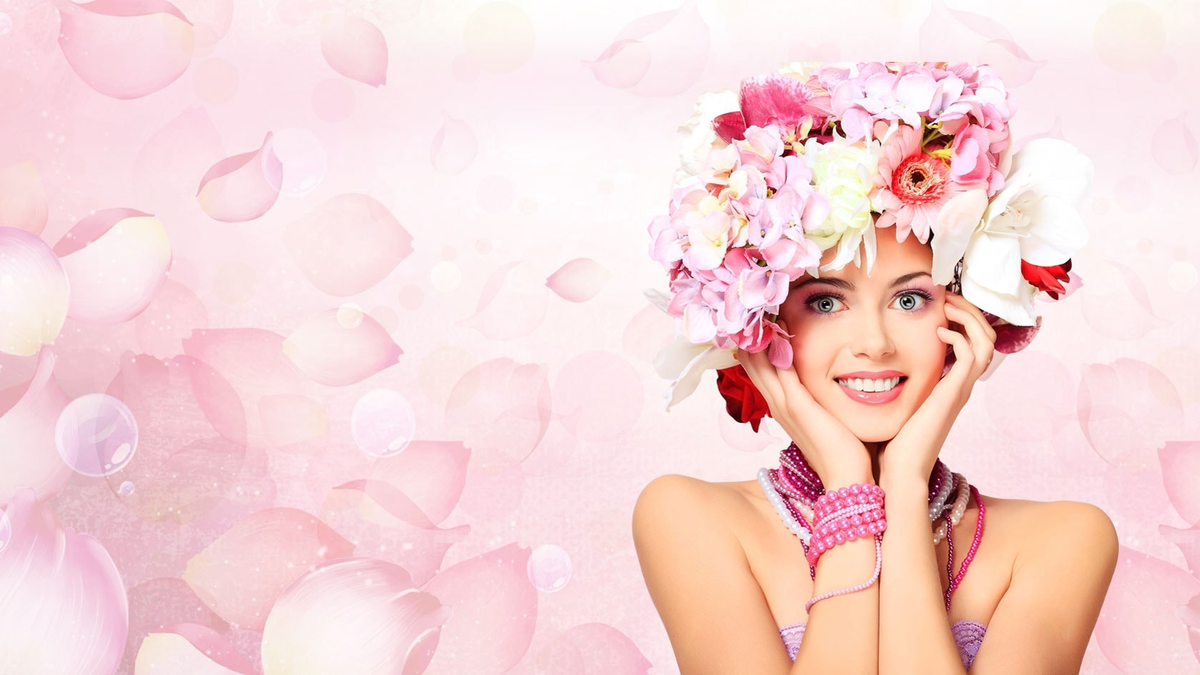
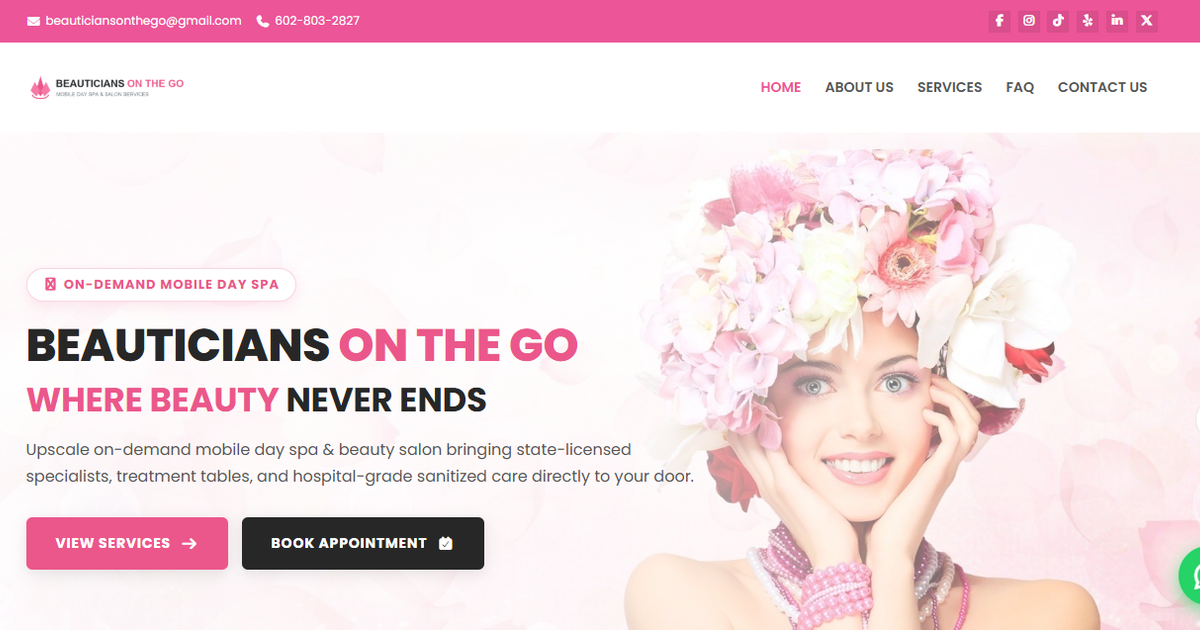
Update Open Graph image to standard 1200x630 branded preview card and install complete social media meta tags

diff --git a/public/demos/beauticiansonthego/about-1.html b/public/demos/beauticiansonthego/about-1.html
@@ -2,6 +2,26 @@
 <html lang="en">
 
 <head>
+    <!-- OPEN GRAPH / SOCIAL MEDIA META TAGS -->
+    <meta property="og:type" content="website">
+    <meta property="og:url" content="https://www.saimdev.site/demos/beauticiansonthego/index.html">
+    <meta property="og:site_name" content="Beauticians On The Go">
+    <meta property="og:title" content="Beauticians On The Go — Upscale On-Demand Mobile Day Spa & Beauty Salon">
+    <meta property="og:description" content="Upscale on-demand mobile day spa & beauty salon delivering state-licensed specialists, treatment tables, and hospital-grade sanitized care directly to private residences, vacation rentals, luxury resorts, and corporate events across AZ, CA, NV & TN.">
+    <meta property="og:image" content="https://www.saimdev.site/demos/beauticiansonthego/og-image.jpg">
+    <meta property="og:image:secure_url" content="https://www.saimdev.site/demos/beauticiansonthego/og-image.jpg">
+    <meta property="og:image:type" content="image/jpeg">
+    <meta property="og:image:width" content="1200">
+    <meta property="og:image:height" content="630">
+    <meta property="og:image:alt" content="Beauticians On The Go Luxury Mobile Day Spa & Salon Showcase">
+
+    <!-- TWITTER / X META TAGS -->
+    <meta name="twitter:card" content="summary_large_image">
+    <meta name="twitter:url" content="https://www.saimdev.site/demos/beauticiansonthego/index.html">
+    <meta name="twitter:title" content="Beauticians On The Go — Upscale On-Demand Mobile Day Spa & Beauty Salon">
+    <meta name="twitter:description" content="Upscale on-demand mobile day spa & beauty salon delivering state-licensed specialists, treatment tables, and hospital-grade sanitized care directly to your door.">
+    <meta name="twitter:image" content="https://www.saimdev.site/demos/beauticiansonthego/og-image.jpg">
+
     <!-- Performance Preconnect Hints -->
     <link rel="preconnect" href="https://fonts.googleapis.com">
     <link rel="preconnect" href="https://fonts.gstatic.com" crossorigin>

diff --git a/public/demos/beauticiansonthego/contact-1.html b/public/demos/beauticiansonthego/contact-1.html
@@ -3,6 +3,26 @@
 <html lang="en">
 
 <head>
+    <!-- OPEN GRAPH / SOCIAL MEDIA META TAGS -->
+    <meta property="og:type" content="website">
+    <meta property="og:url" content="https://www.saimdev.site/demos/beauticiansonthego/index.html">
+    <meta property="og:site_name" content="Beauticians On The Go">
+    <meta property="og:title" content="Beauticians On The Go — Upscale On-Demand Mobile Day Spa & Beauty Salon">
+    <meta property="og:description" content="Upscale on-demand mobile day spa & beauty salon delivering state-licensed specialists, treatment tables, and hospital-grade sanitized care directly to private residences, vacation rentals, luxury resorts, and corporate events across AZ, CA, NV & TN.">
+    <meta property="og:image" content="https://www.saimdev.site/demos/beauticiansonthego/og-image.jpg">
+    <meta property="og:image:secure_url" content="https://www.saimdev.site/demos/beauticiansonthego/og-image.jpg">
+    <meta property="og:image:type" content="image/jpeg">
+    <meta property="og:image:width" content="1200">
+    <meta property="og:image:height" content="630">
+    <meta property="og:image:alt" content="Beauticians On The Go Luxury Mobile Day Spa & Salon Showcase">
+
+    <!-- TWITTER / X META TAGS -->
+    <meta name="twitter:card" content="summary_large_image">
+    <meta name="twitter:url" content="https://www.saimdev.site/demos/beauticiansonthego/index.html">
+    <meta name="twitter:title" content="Beauticians On The Go — Upscale On-Demand Mobile Day Spa & Beauty Salon">
+    <meta name="twitter:description" content="Upscale on-demand mobile day spa & beauty salon delivering state-licensed specialists, treatment tables, and hospital-grade sanitized care directly to your door.">
+    <meta name="twitter:image" content="https://www.saimdev.site/demos/beauticiansonthego/og-image.jpg">
+
     <!-- Performance Preconnect Hints -->
     <link rel="preconnect" href="https://fonts.googleapis.com">
     <link rel="preconnect" href="https://fonts.gstatic.com" crossorigin>

diff --git a/public/demos/beauticiansonthego/faq-1.html b/public/demos/beauticiansonthego/faq-1.html
@@ -3,6 +3,26 @@
 <html lang="en">
 
 <head>
+    <!-- OPEN GRAPH / SOCIAL MEDIA META TAGS -->
+    <meta property="og:type" content="website">
+    <meta property="og:url" content="https://www.saimdev.site/demos/beauticiansonthego/index.html">
+    <meta property="og:site_name" content="Beauticians On The Go">
+    <meta property="og:title" content="Beauticians On The Go — Upscale On-Demand Mobile Day Spa & Beauty Salon">
+    <meta property="og:description" content="Upscale on-demand mobile day spa & beauty salon delivering state-licensed specialists, treatment tables, and hospital-grade sanitized care directly to private residences, vacation rentals, luxury resorts, and corporate events across AZ, CA, NV & TN.">
+    <meta property="og:image" content="https://www.saimdev.site/demos/beauticiansonthego/og-image.jpg">
+    <meta property="og:image:secure_url" content="https://www.saimdev.site/demos/beauticiansonthego/og-image.jpg">
+    <meta property="og:image:type" content="image/jpeg">
+    <meta property="og:image:width" content="1200">
+    <meta property="og:image:height" content="630">
+    <meta property="og:image:alt" content="Beauticians On The Go Luxury Mobile Day Spa & Salon Showcase">
+
+    <!-- TWITTER / X META TAGS -->
+    <meta name="twitter:card" content="summary_large_image">
+    <meta name="twitter:url" content="https://www.saimdev.site/demos/beauticiansonthego/index.html">
+    <meta name="twitter:title" content="Beauticians On The Go — Upscale On-Demand Mobile Day Spa & Beauty Salon">
+    <meta name="twitter:description" content="Upscale on-demand mobile day spa & beauty salon delivering state-licensed specialists, treatment tables, and hospital-grade sanitized care directly to your door.">
+    <meta name="twitter:image" content="https://www.saimdev.site/demos/beauticiansonthego/og-image.jpg">
+
     <!-- Performance Preconnect Hints -->
     <link rel="preconnect" href="https://fonts.googleapis.com">
     <link rel="preconnect" href="https://fonts.gstatic.com" crossorigin>

diff --git a/public/demos/beauticiansonthego/services-1.html b/public/demos/beauticiansonthego/services-1.html
@@ -2,6 +2,26 @@
 <html lang="en">
 
 <head>
+    <!-- OPEN GRAPH / SOCIAL MEDIA META TAGS -->
+    <meta property="og:type" content="website">
+    <meta property="og:url" content="https://www.saimdev.site/demos/beauticiansonthego/index.html">
+    <meta property="og:site_name" content="Beauticians On The Go">
+    <meta property="og:title" content="Beauticians On The Go — Upscale On-Demand Mobile Day Spa & Beauty Salon">
+    <meta property="og:description" content="Upscale on-demand mobile day spa & beauty salon delivering state-licensed specialists, treatment tables, and hospital-grade sanitized care directly to private residences, vacation rentals, luxury resorts, and corporate events across AZ, CA, NV & TN.">
+    <meta property="og:image" content="https://www.saimdev.site/demos/beauticiansonthego/og-image.jpg">
+    <meta property="og:image:secure_url" content="https://www.saimdev.site/demos/beauticiansonthego/og-image.jpg">
+    <meta property="og:image:type" content="image/jpeg">
+    <meta property="og:image:width" content="1200">
+    <meta property="og:image:height" content="630">
+    <meta property="og:image:alt" content="Beauticians On The Go Luxury Mobile Day Spa & Salon Showcase">
+
+    <!-- TWITTER / X META TAGS -->
+    <meta name="twitter:card" content="summary_large_image">
+    <meta name="twitter:url" content="https://www.saimdev.site/demos/beauticiansonthego/index.html">
+    <meta name="twitter:title" content="Beauticians On The Go — Upscale On-Demand Mobile Day Spa & Beauty Salon">
+    <meta name="twitter:description" content="Upscale on-demand mobile day spa & beauty salon delivering state-licensed specialists, treatment tables, and hospital-grade sanitized care directly to your door.">
+    <meta name="twitter:image" content="https://www.saimdev.site/demos/beauticiansonthego/og-image.jpg">
+
     <!-- Performance Preconnect Hints -->
     <link rel="preconnect" href="https://fonts.googleapis.com">
     <link rel="preconnect" href="https://fonts.gstatic.com" crossorigin>

diff --git a/public/demos/beauticiansonthego/index.html b/public/demos/beauticiansonthego/index.html
@@ -2,6 +2,26 @@
 <html lang="en">
 
 <head>
+    <!-- OPEN GRAPH / SOCIAL MEDIA META TAGS -->
+    <meta property="og:type" content="website">
+    <meta property="og:url" content="https://www.saimdev.site/demos/beauticiansonthego/index.html">
+    <meta property="og:site_name" content="Beauticians On The Go">
+    <meta property="og:title" content="Beauticians On The Go — Upscale On-Demand Mobile Day Spa & Beauty Salon">
+    <meta property="og:description" content="Upscale on-demand mobile day spa & beauty salon delivering state-licensed specialists, treatment tables, and hospital-grade sanitized care directly to private residences, vacation rentals, luxury resorts, and corporate events across AZ, CA, NV & TN.">
+    <meta property="og:image" content="https://www.saimdev.site/demos/beauticiansonthego/og-image.jpg">
+    <meta property="og:image:secure_url" content="https://www.saimdev.site/demos/beauticiansonthego/og-image.jpg">
+    <meta property="og:image:type" content="image/jpeg">
+    <meta property="og:image:width" content="1200">
+    <meta property="og:image:height" content="630">
+    <meta property="og:image:alt" content="Beauticians On The Go Luxury Mobile Day Spa & Salon Showcase">
+
+    <!-- TWITTER / X META TAGS -->
+    <meta name="twitter:card" content="summary_large_image">
+    <meta name="twitter:url" content="https://www.saimdev.site/demos/beauticiansonthego/index.html">
+    <meta name="twitter:title" content="Beauticians On The Go — Upscale On-Demand Mobile Day Spa & Beauty Salon">
+    <meta name="twitter:description" content="Upscale on-demand mobile day spa & beauty salon delivering state-licensed specialists, treatment tables, and hospital-grade sanitized care directly to your door.">
+    <meta name="twitter:image" content="https://www.saimdev.site/demos/beauticiansonthego/og-image.jpg">
+
     <link rel="preload" as="image" href="images/main-slider/slider2/slide1.jpg" fetchpriority="high">
 
     <!-- Performance Preconnect Hints -->
